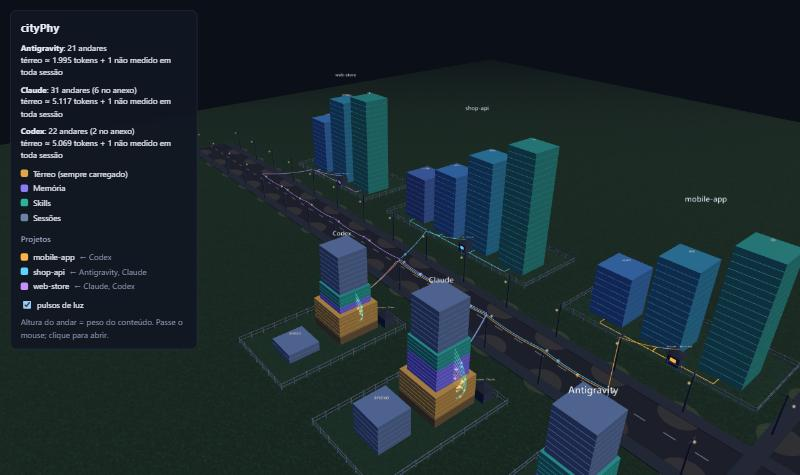
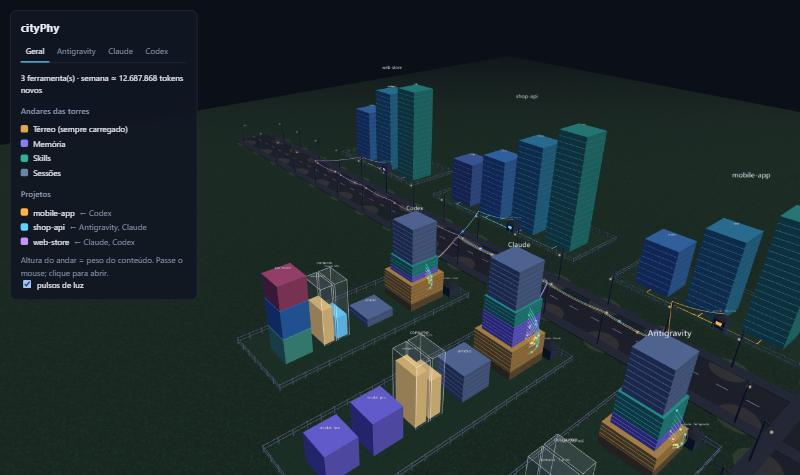
README e CHANGELOG com torres por modelo, torre de consumo, abas e leitores das três ferramentas

diff --git a/README.md b/README.md
@@ -38,6 +38,9 @@ O cityPhy ataca o que **entra** na conversa:
 | **Torre da IA** (a oeste da rua principal) | uma por IA. **Térreo** = o que ela carrega em *toda* sessão (regras, instruções, índice da memória, lista de skills). Depois memórias, skills e as sessões recentes; as antigas vão para o **anexo**. Altura do andar = peso do conteúdo (≈ tokens). |
 | **Condomínio** (a leste da rua) | um lote cercado por projeto, um prédio por pasta de topo, do tamanho do número de arquivos. Cada projeto tem **a sua cor**. |
 | **Rede elétrica** | quando uma IA trabalha num projeto, um cabo sai da torre, segue pelos **postes de luz** da calçada, atravessa a rua pelo ar e entra pela **portaria** do projeto; de lá corre pelo chão até cada prédio. Pulsos de luz correm nele na cor do projeto. Nada fica em cima da rua. |
+| **Torres por modelo** | ao lado de cada IA, uma torre por modelo usado (ex.: dois modelos do Claude, três níveis do mesmo GPT). Cada **faixa** é um nível de raciocínio (low, medium, high...), do tamanho dos tokens gastos. O painel tem **Resumo**, **Níveis**, **Calculadora** (digite quantas chamadas a tarefa terá e veja o custo em cada nível: tokens novos × cache) e **Comparar** (os modelos da IA lado a lado). |
+| **Torre de consumo** | dois blocos de **vidro** que enchem até 100%: **semana** e **dia** (ou a janela de 5 horas, quando a ferramenta informa). Usa o **percentual real do plano** quando a ferramenta registra (ex.: Codex); senão, o limite que você definir no config; sem limite, mostra só os tokens. |
+| **Painel com abas** | à esquerda, **Geral** e uma aba por ferramenta encontrada (nova ferramenta = nova aba, sozinha). Nos condomínios: Resumo, Economia, Memória e Opções. |
 | **Portaria (painel)** | passe o mouse para ver o peso; clique para abrir o painel. |
 
 <table>
@@ -121,7 +124,10 @@ npm run dev                  # http://127.0.0.1:5190
     torre-claude/          torre do Claude
     torre-codex/
   ```
-- `exclude` vai para o `graphify extract --exclude`. Se o `graphify` não estiver no `PATH`, defina `GRAPHIFY_BIN`.
+- `exclude` vai para o `graphify extract --exclude`. Se o `graphify` não estiver no `PATH`, defina `GRAPHIFY_BIN` ou `graphifyBin`.
+- Opcional, só no seu config local: `"models": { "<modelo>": { "multiplier": 2 } }` (custo relativo 1x/2x/0x do seu plano) e `"tools": { "claude": { "dailyLimit": 2000000, "weeklyLimit": 10000000 } }` (o 100% da torre de consumo, em tokens novos).
+
+**Leitores de uso hoje:** Claude Code (modelo e tokens por chamada), Codex (modelo, nível de raciocínio, tokens e o % real do plano) e Antigravity (modelo, nível e tokens). Cada ferramenta acrescenta o seu em `src/metrics/usage/` e `src/metrics/consumption/`.
 
 ## O que o `setup` pergunta (por projeto)
 
@@ -177,9 +183,10 @@ Notas para IAs: [AGENTS.md](AGENTS.md) · Mudanças: [CHANGELOG.md](CHANGELOG.md
 
 ## Próximos passos
 
-- Painéis com abas: economia por IA e por modelo, memória, opções ligadas, trabalho recente
+- Várias contas por ferramenta (uma torre de consumo por conta + total)
+- "Medir demanda": qual modelo e nível servem para uma tarefa (previsão pelo histórico e teste real opcional)
 - Pulsos ao vivo quando uma IA consulta o grafo ou salva uma memória
-- Leitores de uso do Codex e do Antigravity (o do Claude está pronto) e o cartório com a memória de cada projeto
+- O cartório com a memória de cada projeto
 - `npx cityphy`
 
 ## Créditos

diff --git a/README.en.md b/README.en.md
@@ -38,6 +38,9 @@ cityPhy attacks what goes *into* the conversation:
 | **Agent tower** (west of the main street) | one per AI agent. **Ground floor** = what the agent loads in *every* session (rules, instruction files, memory index, skills listing). Then memories, skills and the latest sessions. Older sessions move to an **annex**. Floor height = content weight (≈ tokens). |
 | **Condominium** (east of the street) | one fenced lot per project, one building per top folder, sized by file count. Each project has **its own color**. |
 | **Power line** | when an agent works on a project, a cable leaves its tower, runs along the **street-lamp posts**, crosses the street through the air and enters the project's **gatehouse**, then runs on the ground to every building. Light pulses travel along it in the project's color. Nothing ever stands on a street. |
+| **Model towers** | next to each agent, one tower per model used (e.g. two Claude models, three levels of the same GPT). Each **band** is a reasoning level (low, medium, high...), sized by the tokens spent. The panel has **Summary**, **Levels**, **Calculator** (type how many calls a task will take and see the cost at each level: fresh × cached tokens) and **Compare** (the agent's models side by side). |
+| **Consumption tower** | two **glass** blocks that fill up to 100%: **week** and **day** (or the 5-hour window, when the tool reports it). Uses the tool's **real plan percent** when it records one (e.g. Codex); otherwise the limit you set in the config; with no limit, just the tokens. |
+| **Tabbed panels** | on the left, **General** plus one tab per tool found (a new tool gets its own tab). In condominiums: Summary, Savings, Memory and Options. |
 | **Gatehouse panel** | hover anything for its weight; click to open its panel. |
 
 <table>
@@ -122,7 +125,10 @@ npm run dev                  # http://127.0.0.1:5190
     torre-claude/          Claude's tower ("torre" = tower)
     torre-codex/
   ```
-- `exclude` is passed to `graphify extract --exclude`. If `graphify` is not on your `PATH`, set `GRAPHIFY_BIN`.
+- `exclude` is passed to `graphify extract --exclude`. If `graphify` is not on your `PATH`, set `GRAPHIFY_BIN` or `graphifyBin`.
+- Optional, only in your local config: `"models": { "<model>": { "multiplier": 2 } }` (relative cost 1x/2x/0x in your plan) and `"tools": { "claude": { "dailyLimit": 2000000, "weeklyLimit": 10000000 } }` (the 100% of the consumption tower, in fresh tokens).
+
+**Usage readers today:** Claude Code (model and tokens per call), Codex (model, reasoning level, tokens and the real plan percent) and Antigravity (model, level and tokens). Each tool adds its own in `src/metrics/usage/` and `src/metrics/consumption/`.
 
 ## What `setup` asks (per project)
 
@@ -178,9 +184,10 @@ Notes for AI agents: [AGENTS.md](AGENTS.md) · Changes: [CHANGELOG.md](CHANGELOG
 
 ## Roadmap
 
-- Tabbed panels: savings per agent and model, memory, enabled options, recent work
+- Several accounts per tool (one consumption tower per account + total)
+- "Measure a task": which model and level fit a task (forecast from history, optional real test)
 - Live pulses when an agent queries the graph or a memory is saved
-- Usage readers for Codex and Antigravity (Claude's is done) and the notary building ("cartório") for each project's memory
+- The notary building ("cartório") for each project's memory
 - `npx cityphy`
 
 ## Credits

diff --git a/CHANGELOG.md b/CHANGELOG.md
@@ -5,6 +5,15 @@ All notable changes to cityPhy. Format based on [Keep a Changelog](https://keepa
 ## [Unreleased]
 
 ### Added
+- **Model towers**: one tower per model next to each agent, one band per reasoning level; panel with summary, levels,
+  a calculator by number of calls (fresh vs cached tokens, × relative cost) and a comparison between models.
+- **Consumption tower**: glass blocks for the week and the day (or the tool's 5-hour window) that fill up to 100%, using
+  the tool's real plan percent when it records one, else the limits in the local config.
+- **Usage and consumption readers** for Claude Code, Codex and Antigravity (model, reasoning level, tokens per call;
+  Codex plan windows).
+- **Tabbed left panel**: a general tab plus one tab per tool found.
+- **Global agent rules**: `cityphy setup` installs a global `cityphy` skill per agent and Claude Code hooks in the global
+  settings; nothing is written inside projects anymore (older project blocks/hooks can be removed by setup).
 - **Local memory per project** (idea of claude-mem, kept on disk): Claude Code hooks turn session events into
   observations in a per-project SQLite file (`node:sqlite`, full-text search), summarized by rules into `LESSONS.md`
   and brought back at session start within a token budget. `cityphy mem search | save | stats | lessons`.
